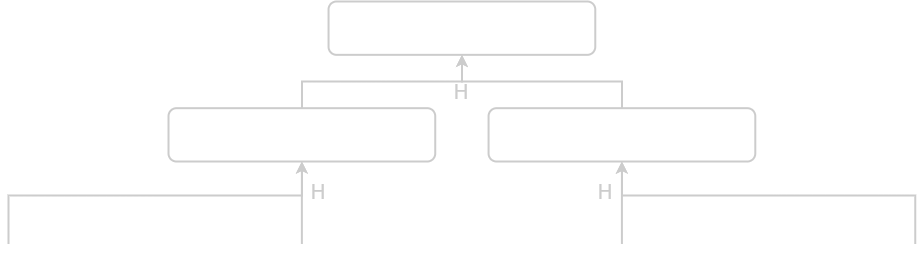
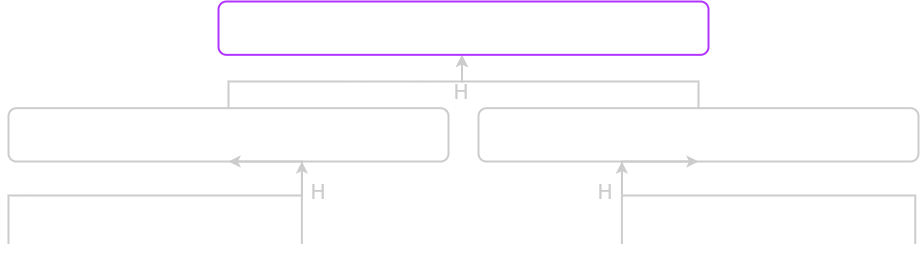
update

diff --git a/src/tutorials/tut_4.js b/src/tutorials/tut_4.js
@@ -7,7 +7,9 @@ import trans2EN from "../materials/images/trans2EN.png"
 import trans2TC from "../materials/images/trans2TC.png"
 import merkleTree from "../materials/images/merkleTree.png"
 import CustomTextField from '../components/customTextField';
+import { Hash } from '../components/crytoFunctions';
 
+// Remarks: Should be separated into 2 components for the transaction part and merkle tree part in later stage.
 export default function Tut_4() {
     const { t, i18n } = useTranslation();
     const titleText = {
@@ -100,11 +102,59 @@ export default function Tut_4() {
     const validationStyle = {
         color: "red"
     }
+    const merkleTree1Style = {
+        position: "absolute",
+        marginTop: "230px"
+    }
+    const merkleTree2Style = {
+        position: "absolute",
+        marginTop: "230px",
+        marginLeft: "230px",
+    }
+    const merkleTree3Style = {
+        position: "absolute",
+        marginTop: "230px",
+        marginLeft: "490px",
+    }
+    const merkleTree4Style = {
+        position: "absolute",
+        marginTop: "230px",
+        marginLeft: "720px",
+    }
+    const merkleTree5Style = {
+        position: "absolute",
+        marginTop: "105px",
+        marginLeft: "16px",
+    }
+    const merkleTree6Style = {
+        position: "absolute",
+        marginTop: "105px",
+        marginLeft: "490px",
+    }
+    const merkleRootStyle = {
+        position: "absolute",
+        marginTop: "0px",
+        marginLeft: "252px",
+    }
+    const h6Style = {
+        color: "#cccccc"
+    }
+    const h6RootStyle = {
+        color: "#b135ff"
+    }
     const [trans1Text1, setTrans1Text1] = useState(0)
     const [trans1Text2, setTrans1Text2] = useState(0)
     const [trans2Text1, setTrans2Text1] = useState(0)
     const [trans2Text2, setTrans2Text2] = useState(0)
     const [valid, setValid] = useState(true)
+
+    const [merkleTree1, setMerkleTree1] = useState("")
+    const [merkleTree2, setMerkleTree2] = useState("")
+    const [merkleTree3, setMerkleTree3] = useState("")
+    const [merkleTree4, setMerkleTree4] = useState("")
+    const [merkleTree5, setMerkleTree5] = useState("")
+    const [merkleTree6, setMerkleTree6] = useState("")
+    const [merkleRoot, setMerkleRoot] = useState("")
     return (
         <>
             <motion.div
@@ -296,7 +346,57 @@ export default function Tut_4() {
                     {t("tutorial_4.paragraph_3_1")}
                 </h3>
                 <div style={merkleTreeDivStyle}>
-
+                    <div style={merkleTree1Style}>
+                        <CustomTextField
+                            onChange={(e)=> {
+                                setMerkleTree1(e)
+                                setMerkleTree5(Hash(merkleTree1+merkleTree2))
+                                setMerkleRoot(Hash(merkleTree5+merkleTree6))
+                            }}
+                        />
+                    </div>
+                    <div style={merkleTree2Style}>
+                        <CustomTextField
+                            onChange={(e)=> {
+                                setMerkleTree2(e)
+                                setMerkleTree5(Hash(merkleTree1+merkleTree2))
+                                setMerkleRoot(Hash(merkleTree5+merkleTree6))
+                            }}
+                        />
+                    </div>
+                    <div style={merkleTree3Style}>
+                        <CustomTextField
+                            onChange={(e)=> {
+                                setMerkleTree3(e)
+                                setMerkleTree6(Hash(merkleTree3+merkleTree4))
+                                setMerkleRoot(Hash(merkleTree5+merkleTree6))
+                            }}
+                        />
+                    </div>
+                    <div style={merkleTree4Style}>
+                        <CustomTextField
+                            onChange={(e)=> {
+                                setMerkleTree4(e)
+                                setMerkleTree6(Hash(merkleTree3+merkleTree4))
+                                setMerkleRoot(Hash(merkleTree5+merkleTree6))
+                            }}
+                        />
+                    </div>
+                    <div style={merkleTree5Style}>
+                        <h6 style={h6Style}>
+                            {merkleTree5}
+                        </h6>
+                    </div>
+                    <div style={merkleTree6Style}>
+                        <h6 style={h6Style}>
+                            {merkleTree6}
+                        </h6>
+                    </div>
+                    <div style={merkleRootStyle}>
+                        <h6 style={h6RootStyle}>
+                            {merkleRoot}
+                        </h6>
+                    </div>
                 </div>
                 <br/><br/><br/><br/><br/><br/>
             </motion.div>
